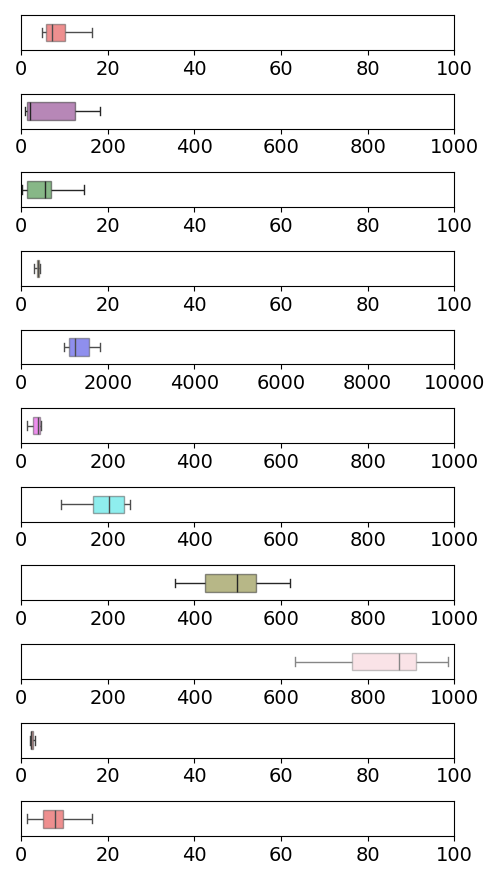
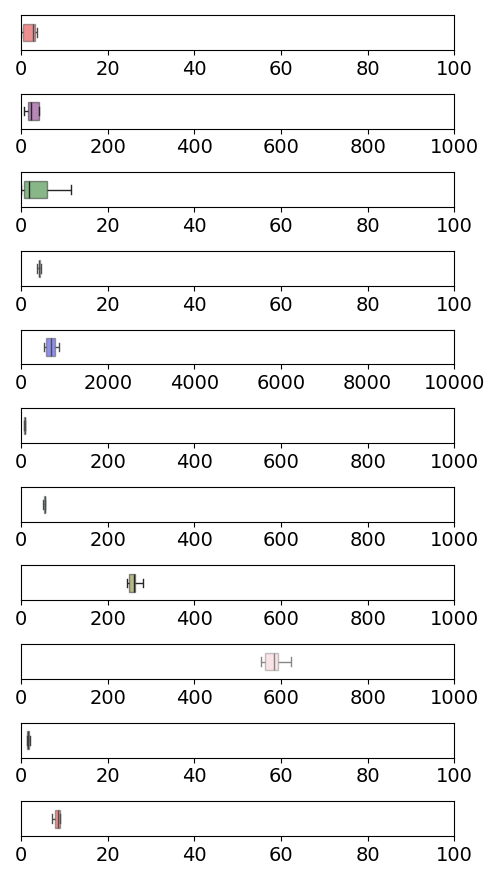
added new scripts

diff --git a/scripts/evpwdb_f/evpwdb_1000_st.py b/scripts/evpwdb_f/evpwdb_1000_st.py
@@ -20,6 +20,13 @@ params_str = """
 params_list = [list(map(float, line.split())) for line in params_str.strip().split("\n")]
 itf.fix_params(params_list[int(sys.argv[1])])
 
+itf.init_param("c_0", 7.2439)
+itf.init_param("c_1", 50.84)
+itf.init_param("t_0", 271.92)
+itf.init_param("t_1", 601.52)
+itf.init_param("c_n", 1.5581)
+itf.init_param("t_n", 9.5121)
+
 itf.read_data("creep/inl_1/AirBase_1000_16_G18.csv")
 itf.remove_oxidation()
 itf.add_error("area", "time", "strain")

diff --git a/moga_neml/optimise/moga.py b/moga_neml/optimise/moga.py
@@ -75,7 +75,8 @@ class MOGA:
             # If the user defined a starting value
             if param_name in init_param_dict.keys():
                 mean_list.append(init_param_dict[param_name])
-                stdev_list.append(0.1 * init_param_dict[param_name])
+                # stdev_list.append(0)
+                stdev_list.append(0.3 * init_param_dict[param_name])
             
             # Otherwise, define normal sampling
             else:
